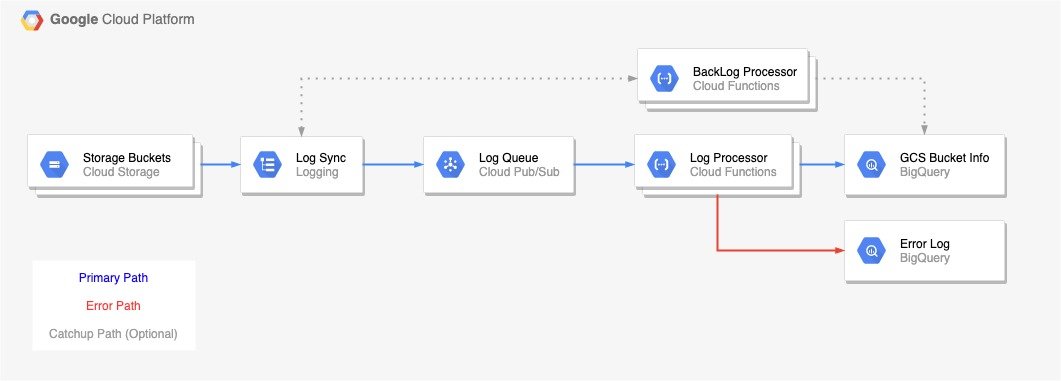
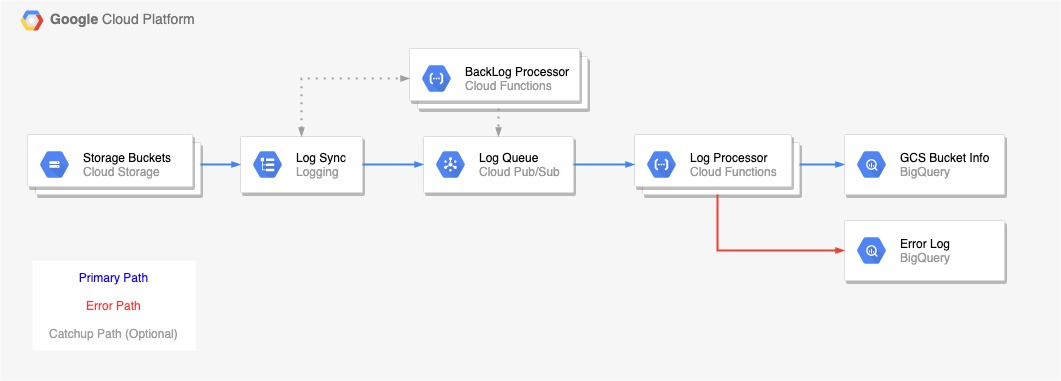
.

Changed region(s): [[0.591, 0.1444, 0.7776, 0.3176], [0.3732, 0.1444, 0.5598, 0.3176]]

diff --git a/README.md b/README.md
@@ -1,10 +1,26 @@
 # gcs-bucket-info
-Get bucket size and information using GCP Audit Trails
+Get bucket size and information using GCP Audit Trails, saved into Big Query, Presented Via DataStudio
 
 ## Application Design
 ![GCS to StackDriver Export to Pub/Sub to Cloud Function to Big Query](media/GCS%20Bucket%20Path.jpg?raw=true "Data Path")
 
-## Big Query Table Schema
+## Pub / Sub
+
+## Cloud Functions
+Two cloud functions (`LogProcessor` and `BackLogProcessor`)
+
+First function is tied to the Pub / Sub queue to save log events to Big Query. It supports a environmental variable to filter selected buckets for storing in BQ.
+Second function is setup and triggered to run through the audit history to look for events captured in the past to populate the Big Query Dataset with historic information. It supports more fine grain controls over filtering, along with history of when to back date results too. This second function is also designed to trigger itself in order to spawn tasks running in parallel
+
+## Big Query
+Creates a Dataset called `gcs_storage_info` with two table `gcs_storage_info` & `gcs_storage_error`. Where the first table is used to store file information, and the second table is used to capture error logging information.
+
+Service accounts attached to each of the Cloud Functions are used to write to the dataset
+
+
+### Big Query Table Schema
+####GCS_Storage_Info
+
 | Column Name | Column Type | Description|
 | --- | --- | --- |
 | eventid | integer | Used to log either stack driver event id or Pub / Sub Message ID |
@@ -17,6 +33,13 @@ Get bucket size and information using GCP Audit Trails
 | file_class | string | Storage class of the file |
 | date | date | Date of event |
 | time | timestamp | Time of the event |
+
+####GCS_Storage_Error
+| Column Name | Column Type | Description|
+| --- | --- | --- |
+| eventid | integer | Used to log either stack driver event id or Pub / Sub Message ID |
+| payload | string | Dump of the Event Content or Pub / Sub Message |
+| error_msg | string | Error Message caught|
 
 
 ```

diff --git a/BackLogProcessor/README.md b/BackLogProcessor/README.md
@@ -3,28 +3,34 @@
 This cloud function is designed to review the audit logs and capture file uploads from before the current date / time stamp to gather as much information as possible around previous uploads.
 
 # Process
-- Get object values:
- - StackDriver Event ID
- - File Name
- - File Path
- - Object Size
- - Date / Time stamp
- - Bucket Name
- - Storage Class (`multi_regional`,`regional`,`nearline`,`coldline`)
- - Check StackDriver Event ID
-  - If value not found in Big Query - Insert new row with values
-  - If value found in Big Query - Drop
-- If error
- - Save raw data packet into Big Query Error Dataset, along with error message
-- If success
- - Drop Data
- - Kill Function
+- Check if child process
+- If child
+  - Pull Audit logs for only child_thread bucket name, from StartDate
+  - Get object values:
+   - StackDriver Event ID
+   - File Name
+   - File Path
+   - Object Size
+   - Date / Time stamp
+   - Bucket Name
+   - Storage Class (`multi_regional`,`regional`,`nearline`,`coldline`)
+   - Add to Pub/Sub Queue
+  - If error
+   - Save raw data packet into Big Query Error Dataset, along with error message
+  - If success
+   - Check Time out remaining
+   - If > 15 seconds Next
+   - If < 15 seconds call another function pass along:
+     - Last processed Event Date / Time Stamp + 0.000001ms
+- If not child
+  - Get list of buckets matching filter (default all)
+  - Spawn one function per bucket with parameter of child_thread = thread bucket name, and StartDate
 
 
 # Environmental Variables
 gcs_buckets = Array of buckets to gather info on. If left blank default to all buckets. Used when filtering logs
-Timeout = Default value is 9 Min
 StartDate = Sets the start date to review logs newer than this date / time. Default is all history
+child_thread = Bucket name to search for
 
 # Todo:
 * Solve for timeouts (May need to call another cloud Function with a date / time and bucket index to resume updates from that time)

diff --git a/LogProcessor/README.md b/LogProcessor/README.md
@@ -19,9 +19,8 @@ This cloud function is designed to respond to a Pub/Sub queue to handle a log ev
  - If value found in Big Query - Drop
 - If error
  - Save raw data packet into Big Query Error Dataset, along with error message
-- If success
- - Drop Data
- - Kill Function
+- Drop Data
+- Kill Function
 
 # Environmental Variables
 gcs_buckets = Array of buckets to gather info on. If left blank default to all buckets. Used when filtering logs
